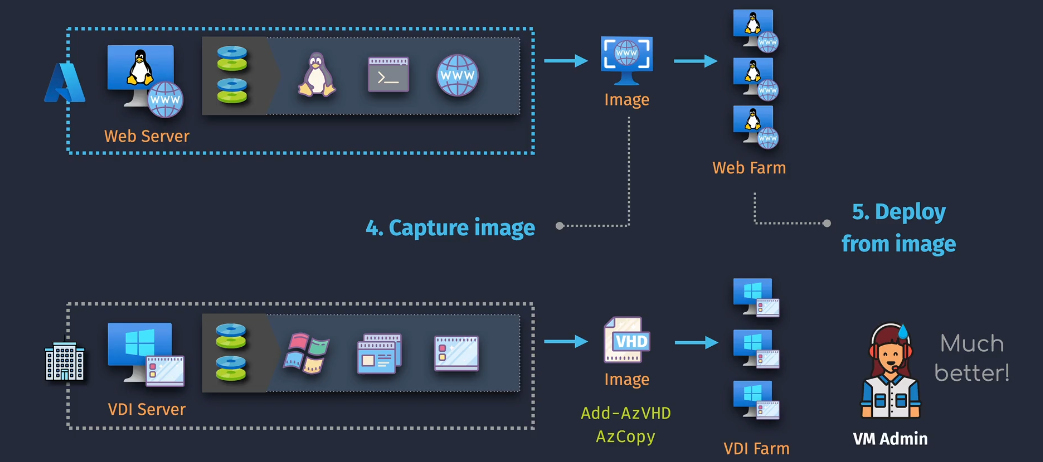
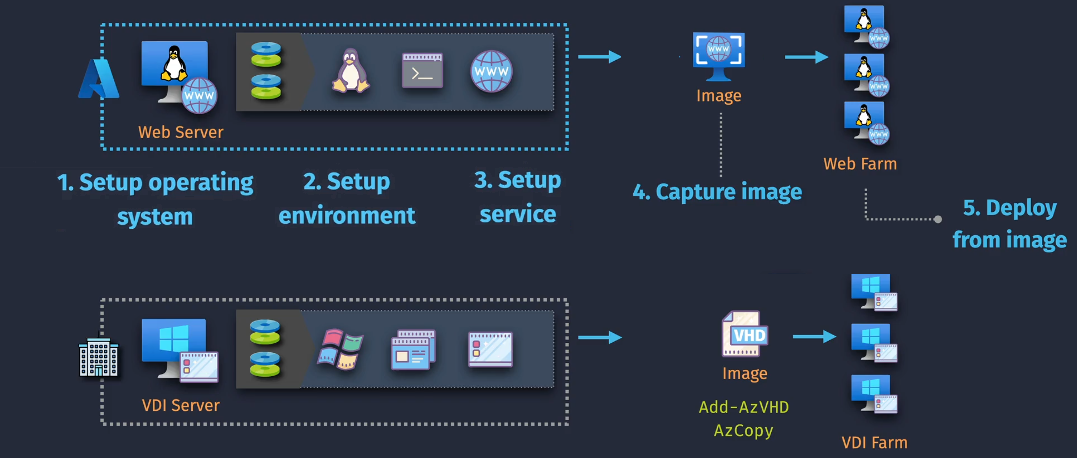
vm-images

diff --git a/services/5.compute/1.1.vm/4.1.vm-images.md b/services/5.compute/1.1.vm/4.1.vm-images.md
@@ -6,6 +6,10 @@
   <img src="images/az-vm-images.png" alt="Azure VM Images" style="width: 80%; border-radius: 10px;">
 </div>
 
+<div align="center">
+  <img src="images/az-vm-images-prep.png" alt="Azure VM Images preparation" style="width: 80%; border-radius: 10px;">
+</div>
+
 ---
 
 ## **Table of Contents**
